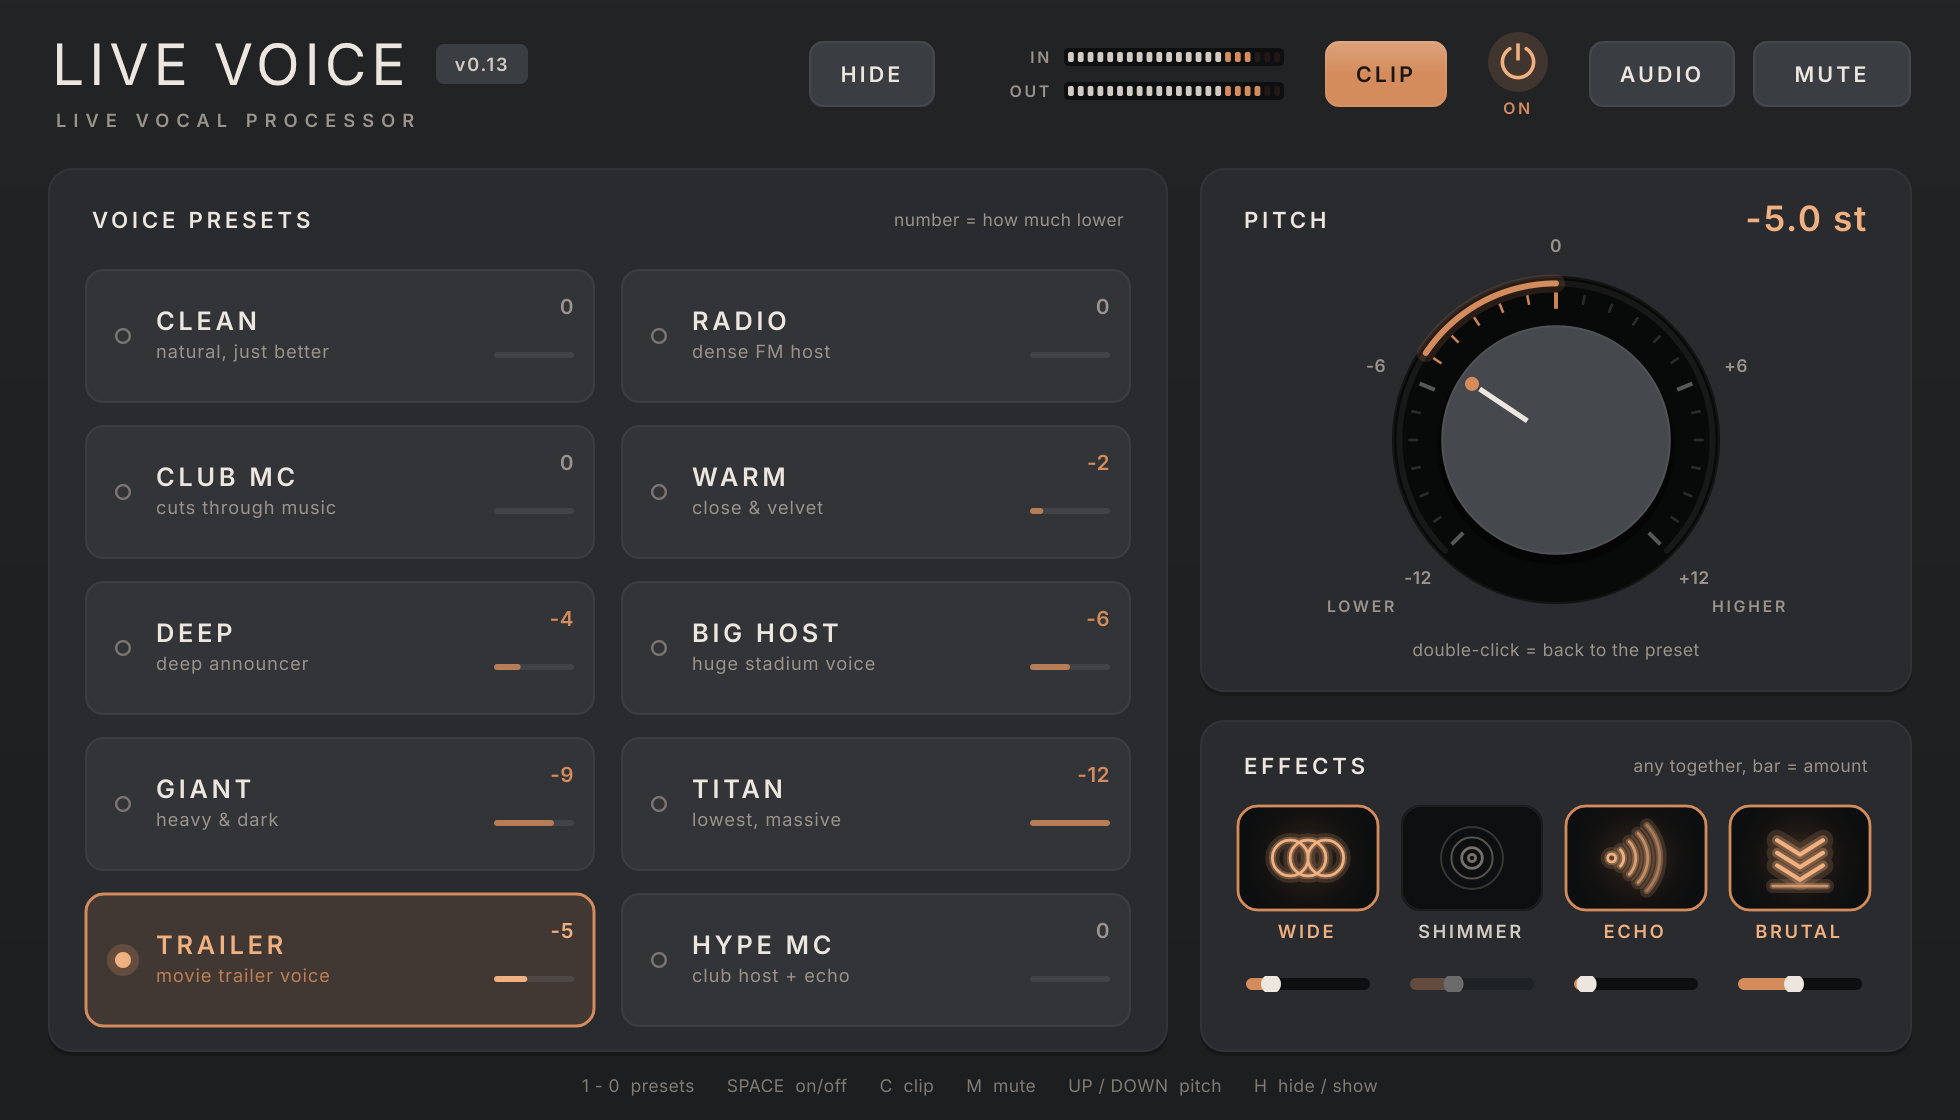
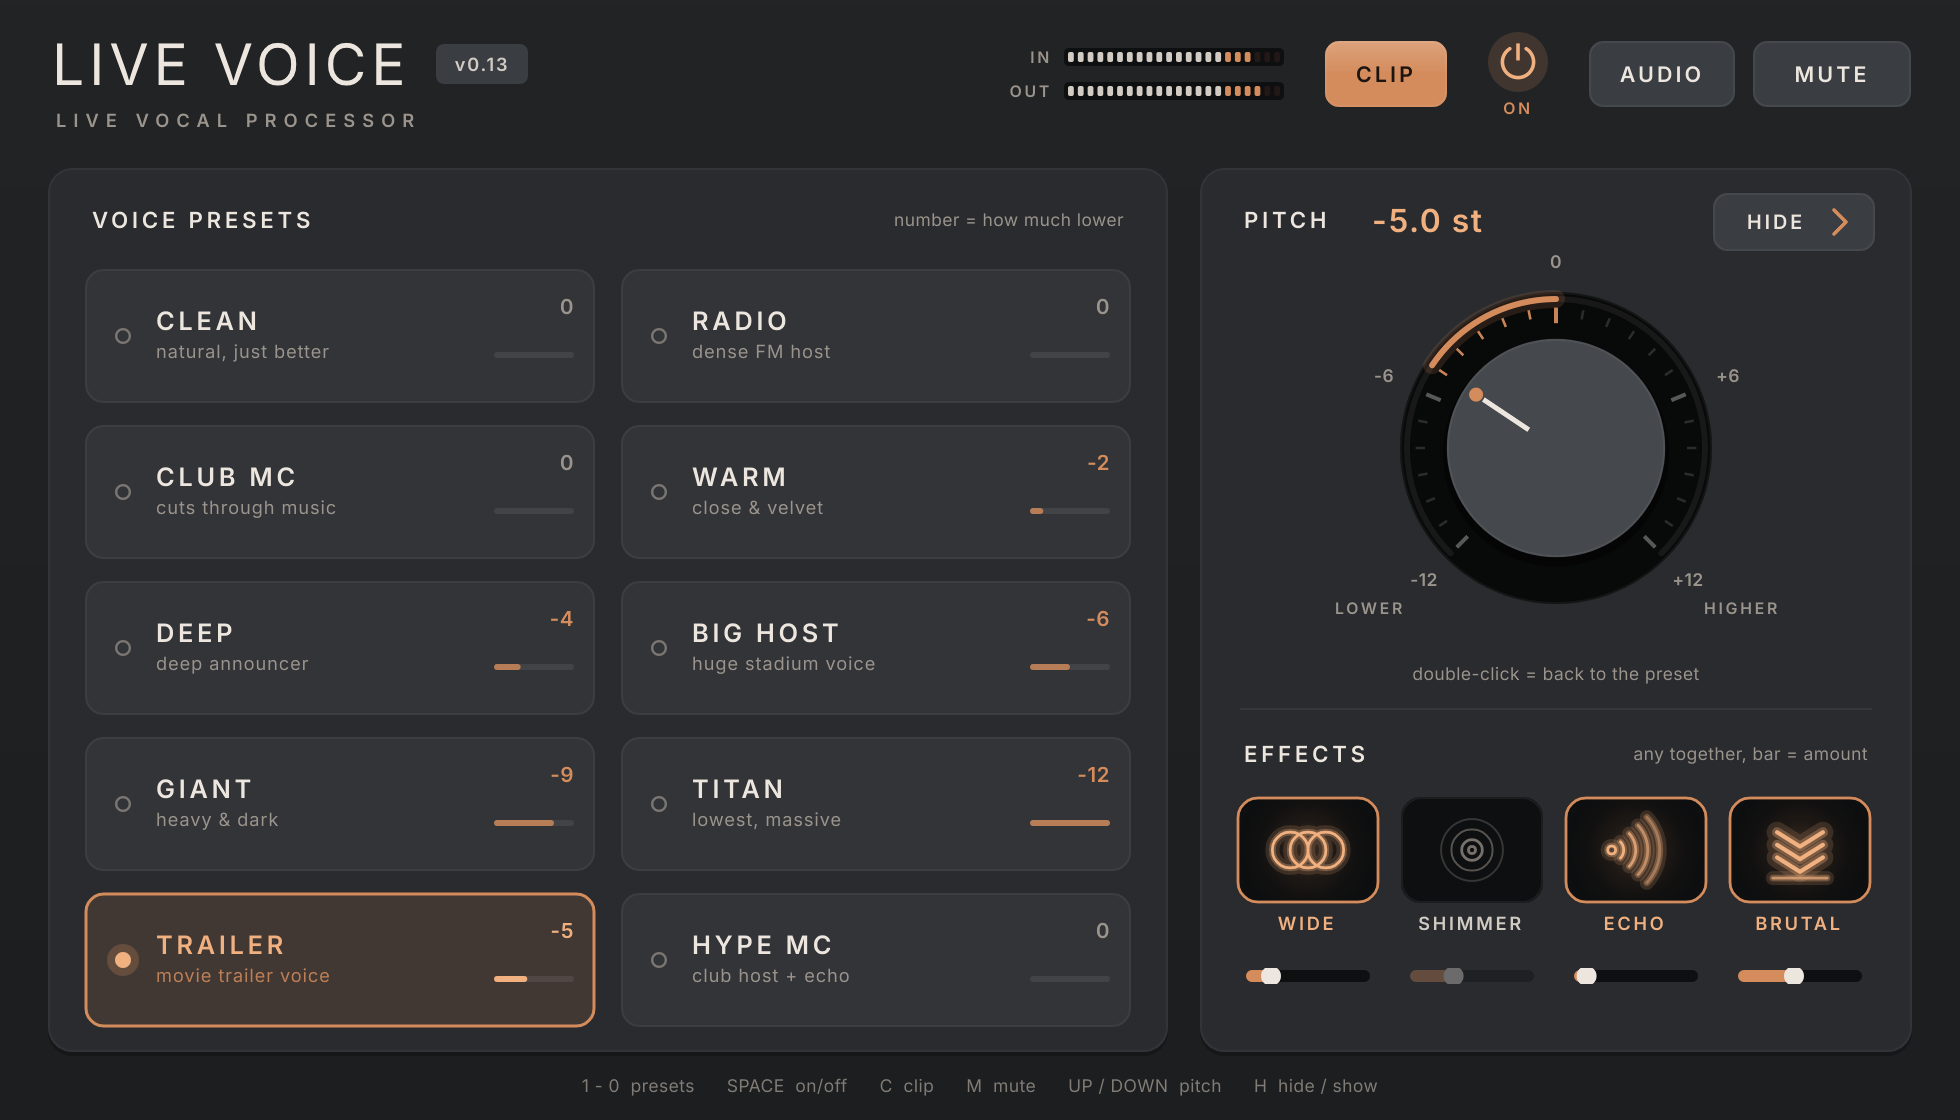
0.13 UI: PITCH + EFFECTS in one module with its own HIDE switch, vertical SHOW tab
Claude-Session: https://claude.ai/code/session_01Hux4b5APwPNLszPe84Rua1

diff --git a/Source/PluginEditor.cpp b/Source/PluginEditor.cpp
@@ -146,6 +146,13 @@ void LiveVoiceLook::drawButtonBackground (Graphics& g, Button& b, const Colour&,
     const bool on = b.getToggleState();
     const float rad = 7.0f;
 
+    if (kind == "tab")
+    {
+        g.setColour (over ? Palette::buttonHi : Palette::panel); g.fillRoundedRectangle (r, 12.0f);
+        g.setColour (over ? Palette::accent.withAlpha (0.7f) : Colours::white.withAlpha (0.06f));
+        g.drawRoundedRectangle (r.reduced (0.5f), 12.0f, 1.0f);
+        return;
+    }
     if (kind == "preset")
     {
         g.setColour (Palette::screen); g.fillRoundedRectangle (r, rad);
@@ -203,6 +210,29 @@ void LiveVoiceLook::drawButtonText (Graphics& g, TextButton& b, bool, bool)
         g.setColour (on ? Palette::accent.withAlpha (0.85f) : Palette::textDim);
         g.setFont (uiFont (11.5f, false, 0.02f));
         g.drawText (b.getProperties()["hint"].toString(), t.translated (0, 2), Justification::topLeft);
+        return;
+    }
+    if (kind == "hide")
+    {
+        // "HIDE >" : clearly the switch for this module
+        g.setColour (Palette::text); g.setFont (uiFont (12.5f, true, 0.10f));
+        g.drawText (b.getButtonText(), r.withTrimmedRight (18), Justification::centred);
+        Path p; const float cx = (float) r.getRight() - 18.0f, cy = (float) r.getCentreY();
+        p.startNewSubPath (cx - 3, cy - 6); p.lineTo (cx + 3, cy); p.lineTo (cx - 3, cy + 6);
+        g.setColour (Palette::accent); g.strokePath (p, PathStrokeType (1.8f, PathStrokeType::curved, PathStrokeType::rounded));
+        return;
+    }
+    if (kind == "tab")
+    {
+        // slim vertical tab: "<" + "PITCH & EFFECTS" written upwards
+        auto c = r.toFloat().getCentre();
+        Path p; const float cy = (float) r.getY() + 34.0f;
+        p.startNewSubPath (c.x + 4, cy - 8); p.lineTo (c.x - 4, cy); p.lineTo (c.x + 4, cy + 8);
+        g.setColour (Palette::accent); g.strokePath (p, PathStrokeType (2.0f, PathStrokeType::curved, PathStrokeType::rounded));
+        Graphics::ScopedSaveState ss (g);
+        g.addTransform (AffineTransform::rotation (-MathConstants<float>::halfPi, c.x, c.y));
+        g.setColour (Palette::text); g.setFont (uiFont (13.0f, true, 0.18f));
+        g.drawText ("SHOW  PITCH & EFFECTS", Rectangle<float> ((float) r.getHeight() - 40.0f, 30.0f).withCentre (c).toNearestInt(), Justification::centred);
         return;
     }
     if (kind == "arrow")
@@ -508,7 +538,6 @@ void LiveVoiceEditor::refresh()
     for (auto* t : tiles) { t->setToggleState (t->index == v, dontSendNotification); t->setAlpha (on ? 1.0f : 0.45f); }
     pitchKnob.setDoubleClickReturnValue (true, kVoices[v].pitch);
     for (int k = 0; k < 4; ++k) fxBars[k]->setAlpha (getParam (kFxOn[k]) > 0.5f ? 1.0f : 0.35f);
-    hideBtn.setButtonText (showControls() ? "HIDE" : "SHOW");
 }
 
 void LiveVoiceEditor::timerCallback()
@@ -517,7 +546,7 @@ void LiveVoiceEditor::timerCallback()
     outMeter.setLevel (proc.engine.outLevel.load());
     const float act = proc.engine.sfxActivity.load();
     for (auto* b : sfxBtns) { b->activity = b->activity * 0.7f + act * 0.3f; if (b->getToggleState()) b->repaint(); }
-    if (pitchPanel.isEmpty() == showControls()) resized();
+    if (controlsPanel.isEmpty() == showControls()) resized();
     refresh();
     repaint (pitchPanel.withHeight (60));
     repaint (sfxPanel.withHeight (50));
@@ -561,7 +590,7 @@ void LiveVoiceEditor::paint (Graphics& g)
     caption (g, on ? "ON" : "OFF", Rectangle<int> (powerBtn.getX() - 8, powerBtn.getBottom() - 1, powerBtn.getWidth() + 16, 14), Justification::centred,
              on ? Palette::accent : Palette::textDim, 10.0f);
 
-    for (auto r : { voicePanel, pitchPanel, sfxPanel }) if (! r.isEmpty()) panelBox (g, r.toFloat());
+    for (auto r : { voicePanel, controlsPanel }) if (! r.isEmpty()) panelBox (g, r.toFloat());
 
     // VOICE PRESETS
     caption (g, "VOICE PRESETS", Rectangle<int> (voicePanel.getX() + 22, voicePanel.getY() + 14, 200, 24), Justification::centredLeft, Palette::text, 14.0f);
@@ -570,12 +599,12 @@ void LiveVoiceEditor::paint (Graphics& g)
 
     if (showControls())
     {
-    // PITCH
-    caption (g, "PITCH", Rectangle<int> (pitchPanel.getX() + 22, pitchPanel.getY() + 14, 120, 24), Justification::centredLeft, Palette::text, 14.0f);
+    // PITCH (top part of the one CONTROLS module; the HIDE button sits in its top-right corner)
+    caption (g, "PITCH", Rectangle<int> (pitchPanel.getX() + 22, pitchPanel.getY() + 14, 70, 24), Justification::centredLeft, Palette::text, 14.0f);
     const float pv = getParam (ParamID::formant);
     g.setColour (std::abs (pv) < 0.05f ? Palette::text : Palette::glow);
-    g.setFont (uiFont (22.0f, true, 0.02f));
-    g.drawText (semis (pv), Rectangle<int> (pitchPanel.getRight() - 162, pitchPanel.getY() + 10, 140, 30), Justification::centredRight);
+    g.setFont (uiFont (20.0f, true, 0.02f));
+    g.drawText (semis (pv), Rectangle<int> (pitchPanel.getX() + 86, pitchPanel.getY() + 11, 110, 30), Justification::centredLeft);
     {
         const auto c = pitchKnob.getBounds().toFloat().getCentre();
         const float rr = pitchKnob.getWidth() * 0.5f + 13.0f;
@@ -588,7 +617,10 @@ void LiveVoiceEditor::paint (Graphics& g)
         caption (g, "HIGHER", Rectangle<int> ((int) (c.x + rr - 36), (int) (c.y + rr * 0.78f), 72, 16), Justification::centred, Palette::textDim, 10.0f);
     }
     g.setColour (Palette::textDim); g.setFont (uiFont (11.0f));
-    g.drawText ("double-click = back to the preset", Rectangle<int> (pitchPanel.getX(), pitchPanel.getBottom() - 30, pitchPanel.getWidth(), 18), Justification::centred);
+    g.drawText ("double-click = back to the preset", Rectangle<int> (pitchPanel.getX(), pitchPanel.getBottom() - 26, pitchPanel.getWidth(), 18), Justification::centred);
+    // divider between PITCH and EFFECTS inside the same module
+    g.setColour (Colours::white.withAlpha (0.06f));
+    g.fillRect (Rectangle<int> (controlsPanel.getX() + 20, sfxPanel.getY(), controlsPanel.getWidth() - 40, 1));
 
     // EFFECT
     caption (g, "EFFECTS", Rectangle<int> (sfxPanel.getX() + 22, sfxPanel.getY() + 12, 160, 22), Justification::centredLeft, Palette::text, 14.0f);
@@ -610,18 +642,20 @@ void LiveVoiceEditor::resized()
     outMeter.setBounds (clipBtn.getX() - 20 - 110, 41, 110, 9);
     inMeter.setBounds (outMeter.getX(), 24, 110, 9);
 
-    hideBtn.setBounds (outMeter.getX() - 34 - 30 - 64, 20, 64, 34);
-
     const int top = 84, h = getHeight() - top - 34;
     const bool show = showControls();
-    for (auto* c : std::initializer_list<Component*> { &pitchKnob }) c->setVisible (show);
+    pitchKnob.setVisible (show);
     for (auto* b : sfxBtns) b->setVisible (show);
     for (auto* b : fxBars) b->setVisible (show);
+    hideBtn.getProperties().set ("kind", show ? "hide" : "tab");
+    hideBtn.setButtonText (show ? "HIDE" : "PITCH & EFFECTS");
     if (! show)
     {
-        // presets only: 5 x 2 big tiles over the whole width
-        voicePanel = { 24, top, getWidth() - 48, h };
-        pitchPanel = {}; sfxPanel = {};
+        // presets only: 5 x 2 big tiles; a slim tab on the right brings PITCH & EFFECTS back
+        const int tabW = 44;
+        hideBtn.setBounds (getWidth() - 24 - tabW, top, tabW, h);
+        voicePanel = { 24, top, hideBtn.getX() - 12 - 24, h };
+        controlsPanel = pitchPanel = sfxPanel = {};
         const int cols = 5, tw = (voicePanel.getWidth() - 36 - (cols - 1) * 12) / cols, th = (voicePanel.getHeight() - 50 - 18 - 12) / 2;
         for (int i = 0; i < tiles.size(); ++i)
             tiles[i]->setBounds (voicePanel.getX() + 18 + (i % cols) * (tw + 12), voicePanel.getY() + 50 + (i / cols) * (th + 12), tw, th);
@@ -629,19 +663,21 @@ void LiveVoiceEditor::resized()
     }
     voicePanel = { 24, top, 560, h };
     const int rx = voicePanel.getRight() + 16, rw = getWidth() - 24 - rx;
-    pitchPanel = { rx, top, rw, 262 };
-    sfxPanel   = { rx, pitchPanel.getBottom() + 14, rw, h - 262 - 14 };
+    controlsPanel = { rx, top, rw, h };
+    pitchPanel = { rx, top, rw, 270 };
+    sfxPanel   = { rx, pitchPanel.getBottom(), rw, h - 270 };
+    hideBtn.setBounds (controlsPanel.getRight() - 18 - 82, controlsPanel.getY() + 12, 82, 30);
 
     const int tw = (voicePanel.getWidth() - 36 - 12) / 2, th = 68, tg = 10;
     for (int i = 0; i < tiles.size(); ++i)
         tiles[i]->setBounds (voicePanel.getX() + 18 + (i % 2) * (tw + 12), voicePanel.getY() + 50 + (i / 2) * (th + tg), tw, th);
 
-    pitchKnob.setBounds (Rectangle<int> (168, 168).withCentre ({ pitchPanel.getCentreX(), pitchPanel.getY() + 136 }));
+    pitchKnob.setBounds (Rectangle<int> (160, 160).withCentre ({ pitchPanel.getCentreX(), pitchPanel.getY() + 140 }));
 
     const int bw = (sfxPanel.getWidth() - 36 - 3 * 10) / 4;
     for (int i = 0; i < 4; ++i)
     {
-        sfxBtns[i]->setBounds (sfxPanel.getX() + 18 + i * (bw + 10), sfxPanel.getY() + 42, bw, bw + 4);
+        sfxBtns[i]->setBounds (sfxPanel.getX() + 18 + i * (bw + 10), sfxPanel.getY() + 44, bw, bw + 4);
         fxBars[i]->setBounds (sfxBtns[i]->getX() + 4, sfxBtns[i]->getBottom() + 10, bw - 8, 8);
     }
 }

diff --git a/Source/PluginEditor.h b/Source/PluginEditor.h
@@ -112,6 +112,6 @@ private:
     bool showControls() const;
     void setShowControls (bool);
 
-    juce::Rectangle<int> voicePanel, pitchPanel, sfxPanel;
+    juce::Rectangle<int> voicePanel, controlsPanel, pitchPanel, sfxPanel;   // controlsPanel = one module: PITCH (top) + EFFECTS (bottom)
     JUCE_DECLARE_NON_COPYABLE_WITH_LEAK_DETECTOR (LiveVoiceEditor)
 };
